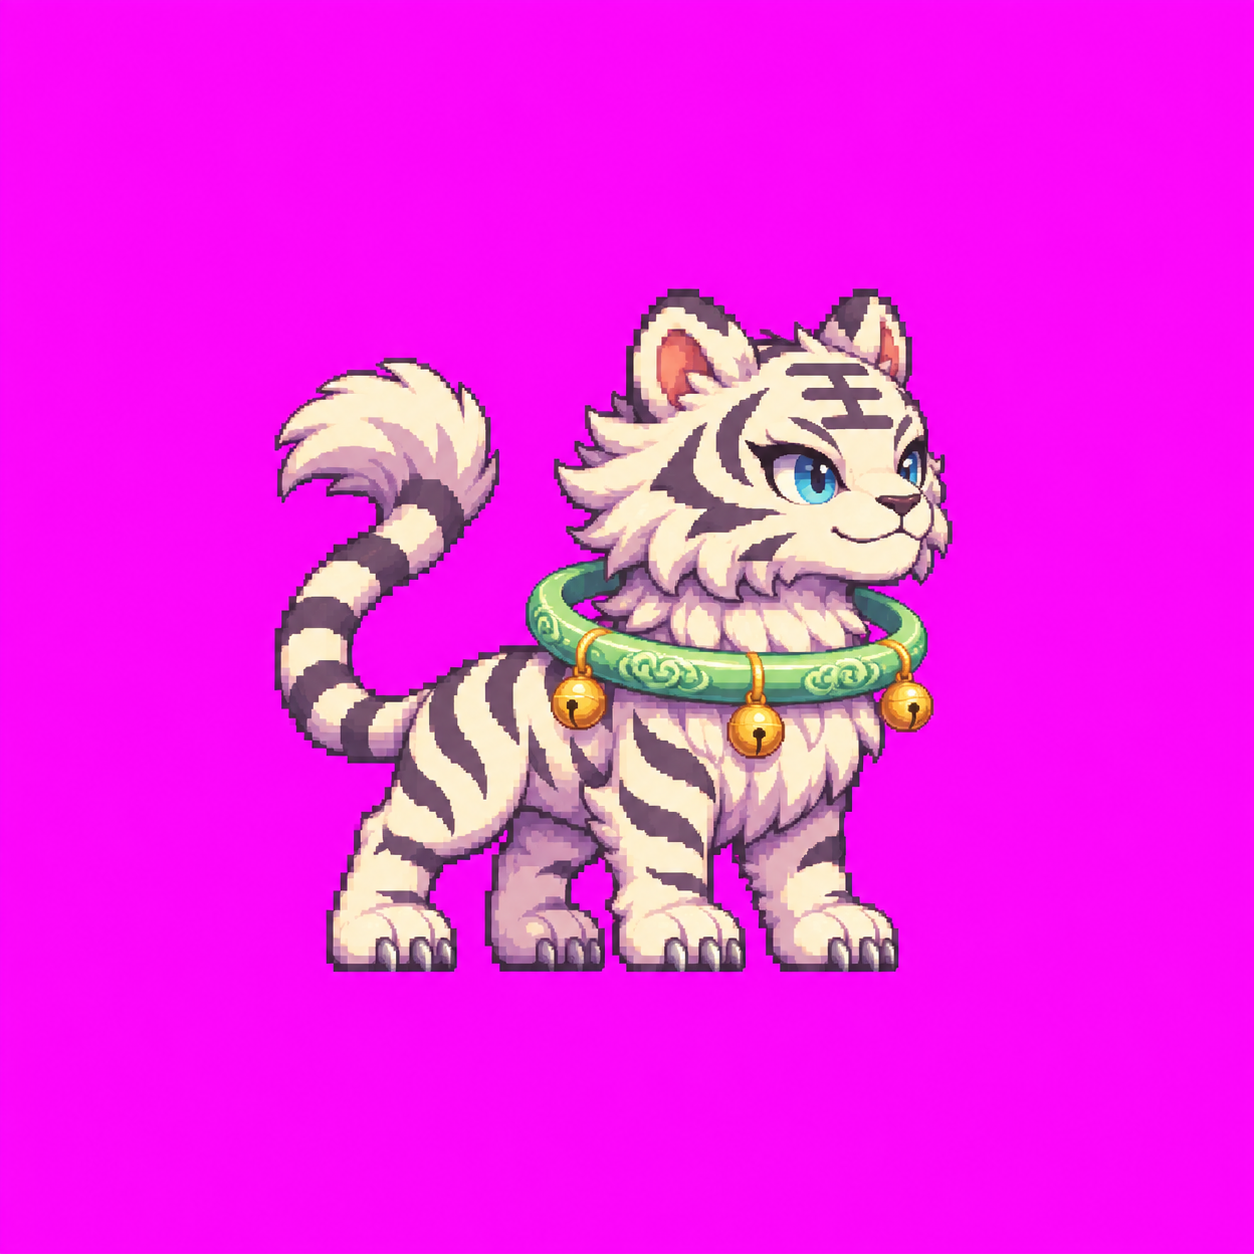
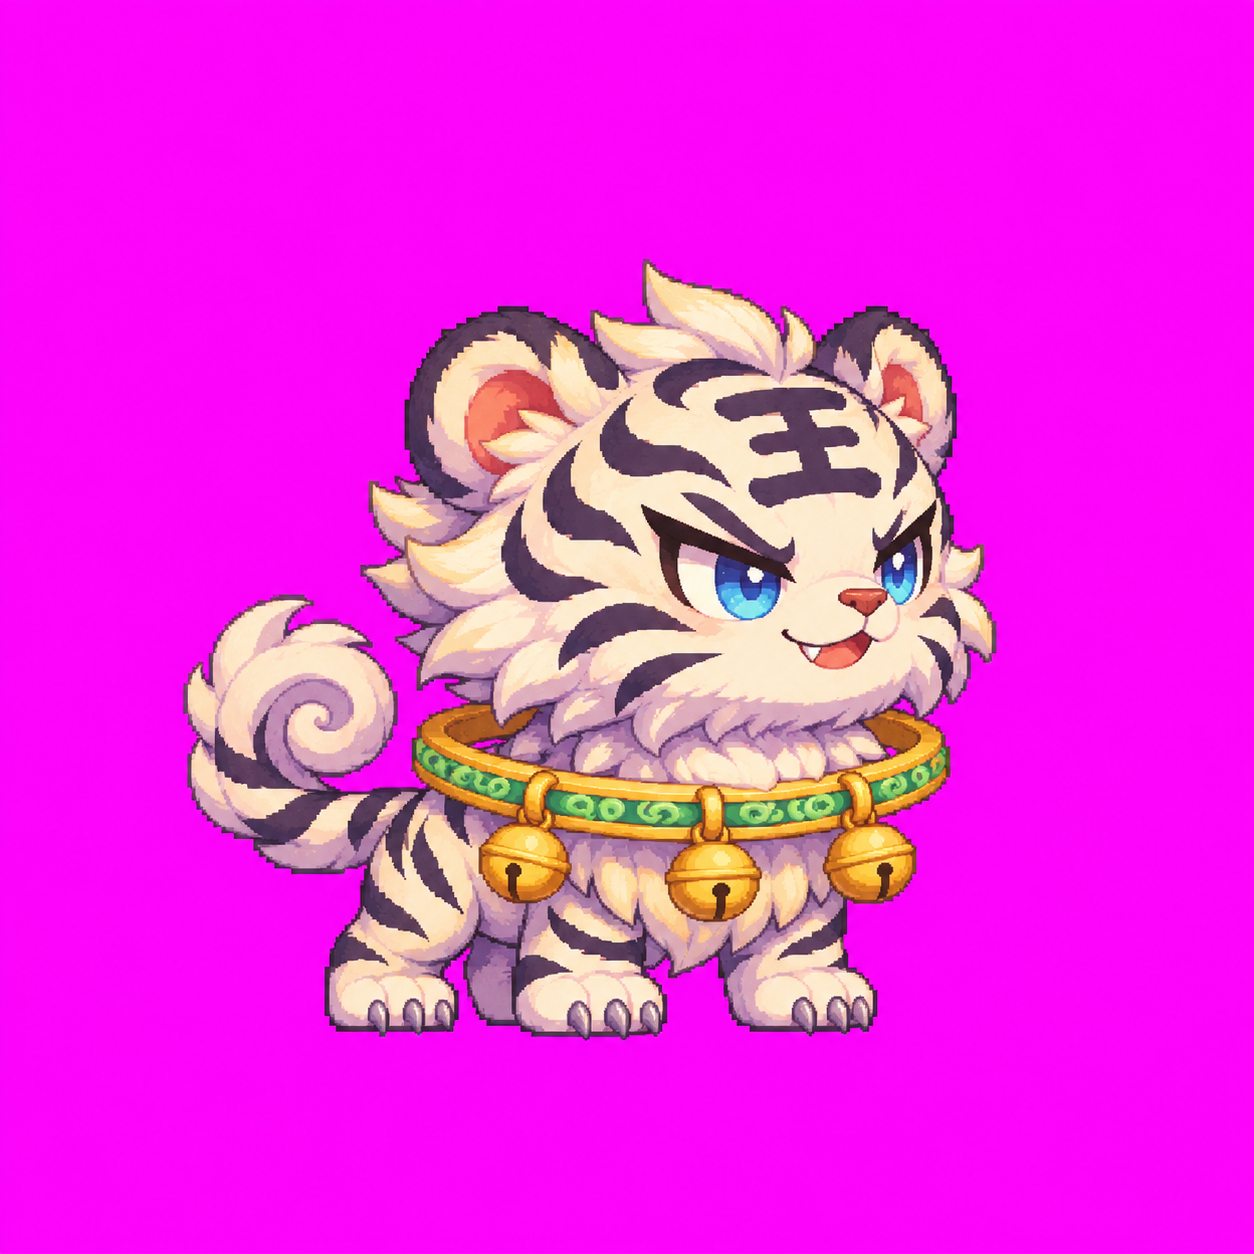
art(batch2): redesign baihu__stand.png for guardian v2

Changed region(s): [[0.1244, 0.1866, 0.8086, 0.8397]]

diff --git a/idle-td-art/batch2/README.md b/idle-td-art/batch2/README.md
@@ -1,6 +1,6 @@
 # 放置塔防第二批點陣圖：工單 B1　神獸 4 隻
 
-狀態：進行中：ChatGPT 神獸 v2 四張站立；交齊後待驗收，通過前不畫攻擊
+狀態：進行中：ChatGPT 神獸 v2 四張站立（已交 1/4）；通過前不畫攻擊
 （狀態只會是：待接手／進行中：<誰> <時間>／待驗收／完成通知）
 
 這是新遊戲「放置塔防」**第二批美術（神獸、塔、陣法）**的交接處，負責驗收的是 Claude 討論串「繪製塔防塔、陣法與神獸」。
@@ -106,6 +106,20 @@ GPT 畫歪時可以回它：
 - 身高照表格，腳底在同一條地線（青龍、朱雀例外，每格飛的高度差不多）。
 - 攻擊 4 格：長相、顏色、大小每格都和站立圖一樣；會動的部位（尾巴、鈴鐺、鬍鬚、翅膀、尾羽、蛇）每格都要動；不多腳少腳。
 - 4 格之間留空隙，不要伸進隔壁格。
+
+## v2 交付紀錄
+
+- 依新版設計全部重新生成，只以標準圖作畫風與比例參考，不沿用舊神獸圖。青龍、朱雀各為兩格待機。
+- 使用本第二批獨立 ChatGPT 工作對話的 ImageGen；提交生成原始 PNG，未裁切、縮放、換背景或用程式畫圖；原圖均保留。
+- 目前僅以下站立圖屬 v2。既有 `*__attack.png` 是已作廢的 v1，不屬本次交付、不可使用；等 v2 站立明確通過才重畫攻擊。
+
+| 檔案 | 實際畫布 | 格數 | 說明 |
+|---|---|---|---|
+| `images/baihu__stand.png` | 1254×1254 | 1 | v2 大頭短身白虎，冰藍神氣眼、一顆小虎牙、王紋、玉飾金環三鈴與風旋毛尾。 |
+
+原圖 SHA-256：
+
[1 lines of base64/hex data omitted]
 
 ## 意見與待辦
 
